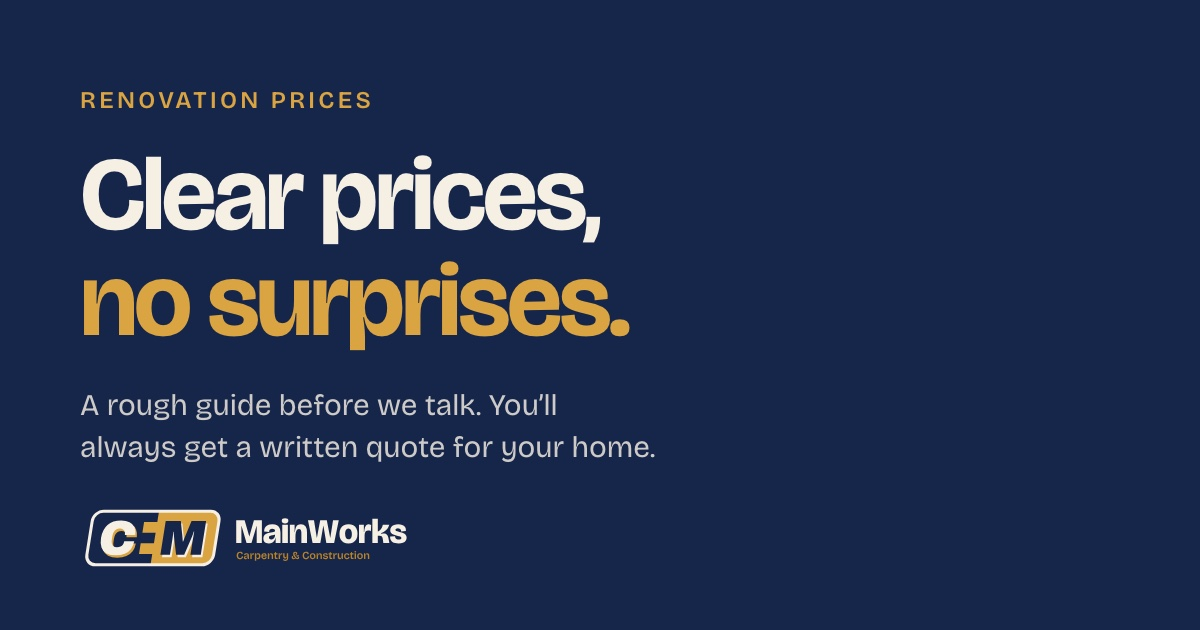
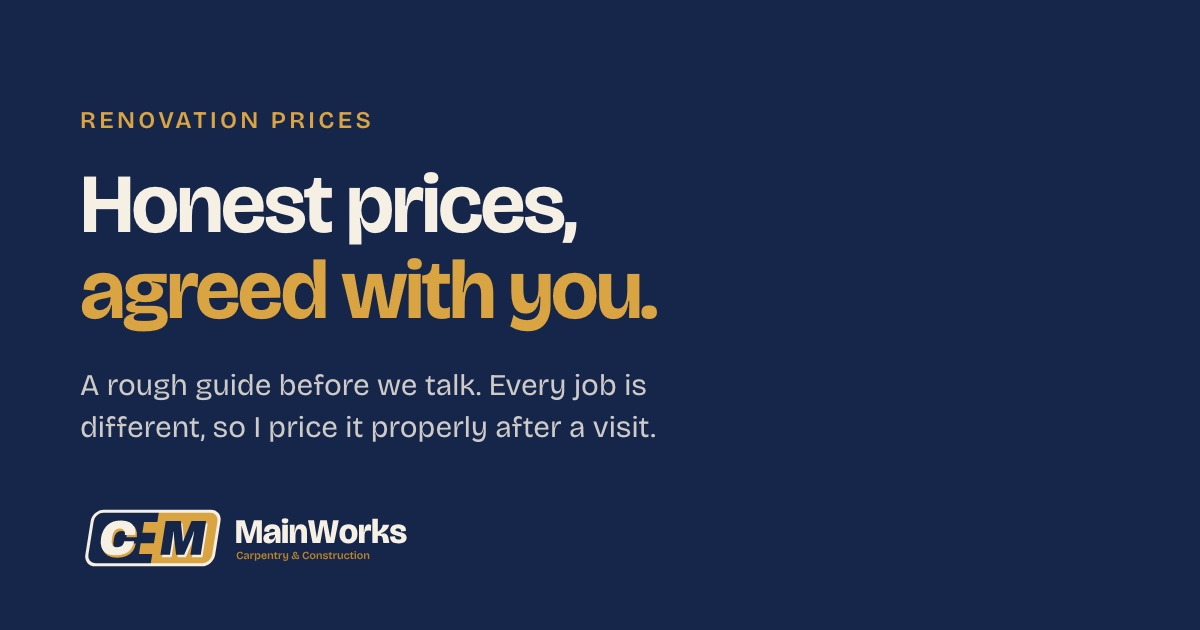
Share images: one per project, and the prices card in the new wording
Each project page gets its own 1200 x 630 card (the finished photo beside the
job's name), made by scripts/make-share-images.mjs from content/projects.ts.
The prices card now says "Honest prices, agreed with you."

Changed region(s): [[0.0617, 0.2413, 0.555, 0.573], [0.0617, 0.6032, 0.555, 0.754], [0.0617, 0.1206, 0.3083, 0.2111]]

diff --git a/app/projects/[slug]/page.tsx b/app/projects/[slug]/page.tsx
@@ -10,7 +10,7 @@ import Closing from "@/components/Closing";
 import type { Media } from "@/content/media";
 import { getProject, monthOf, projectPages, projectPhotos } from "@/content/projects";
 import { getSection } from "@/content/site";
-import { pageMeta } from "@/lib/seo";
+import { pageMeta, shareImage } from "@/lib/seo";
 
 type Props = { params: Promise<{ slug: string }> };
 
@@ -25,7 +25,8 @@ const ratio = (m: Media) => (m.w && m.h ? m.w / m.h : 3 / 4);
 export async function generateMetadata({ params }: Props): Promise<Metadata> {
   const p = getProject((await params).slug);
   if (!p) return {};
-  const image = p.after.src ? { src: p.after.src, alt: p.after.alt } : undefined;
+  // its own 1200 x 630 card (scripts/make-share-images.mjs projects): the finished photo beside the job's name
+  const image = shareImage(`project-${p.slug}`, `CM MainWorks: ${titleOf(p)}`);
   return pageMeta({ title: titleOf(p), description: p.summary, path: `/projects/${p.slug}`, image });
 }
 
